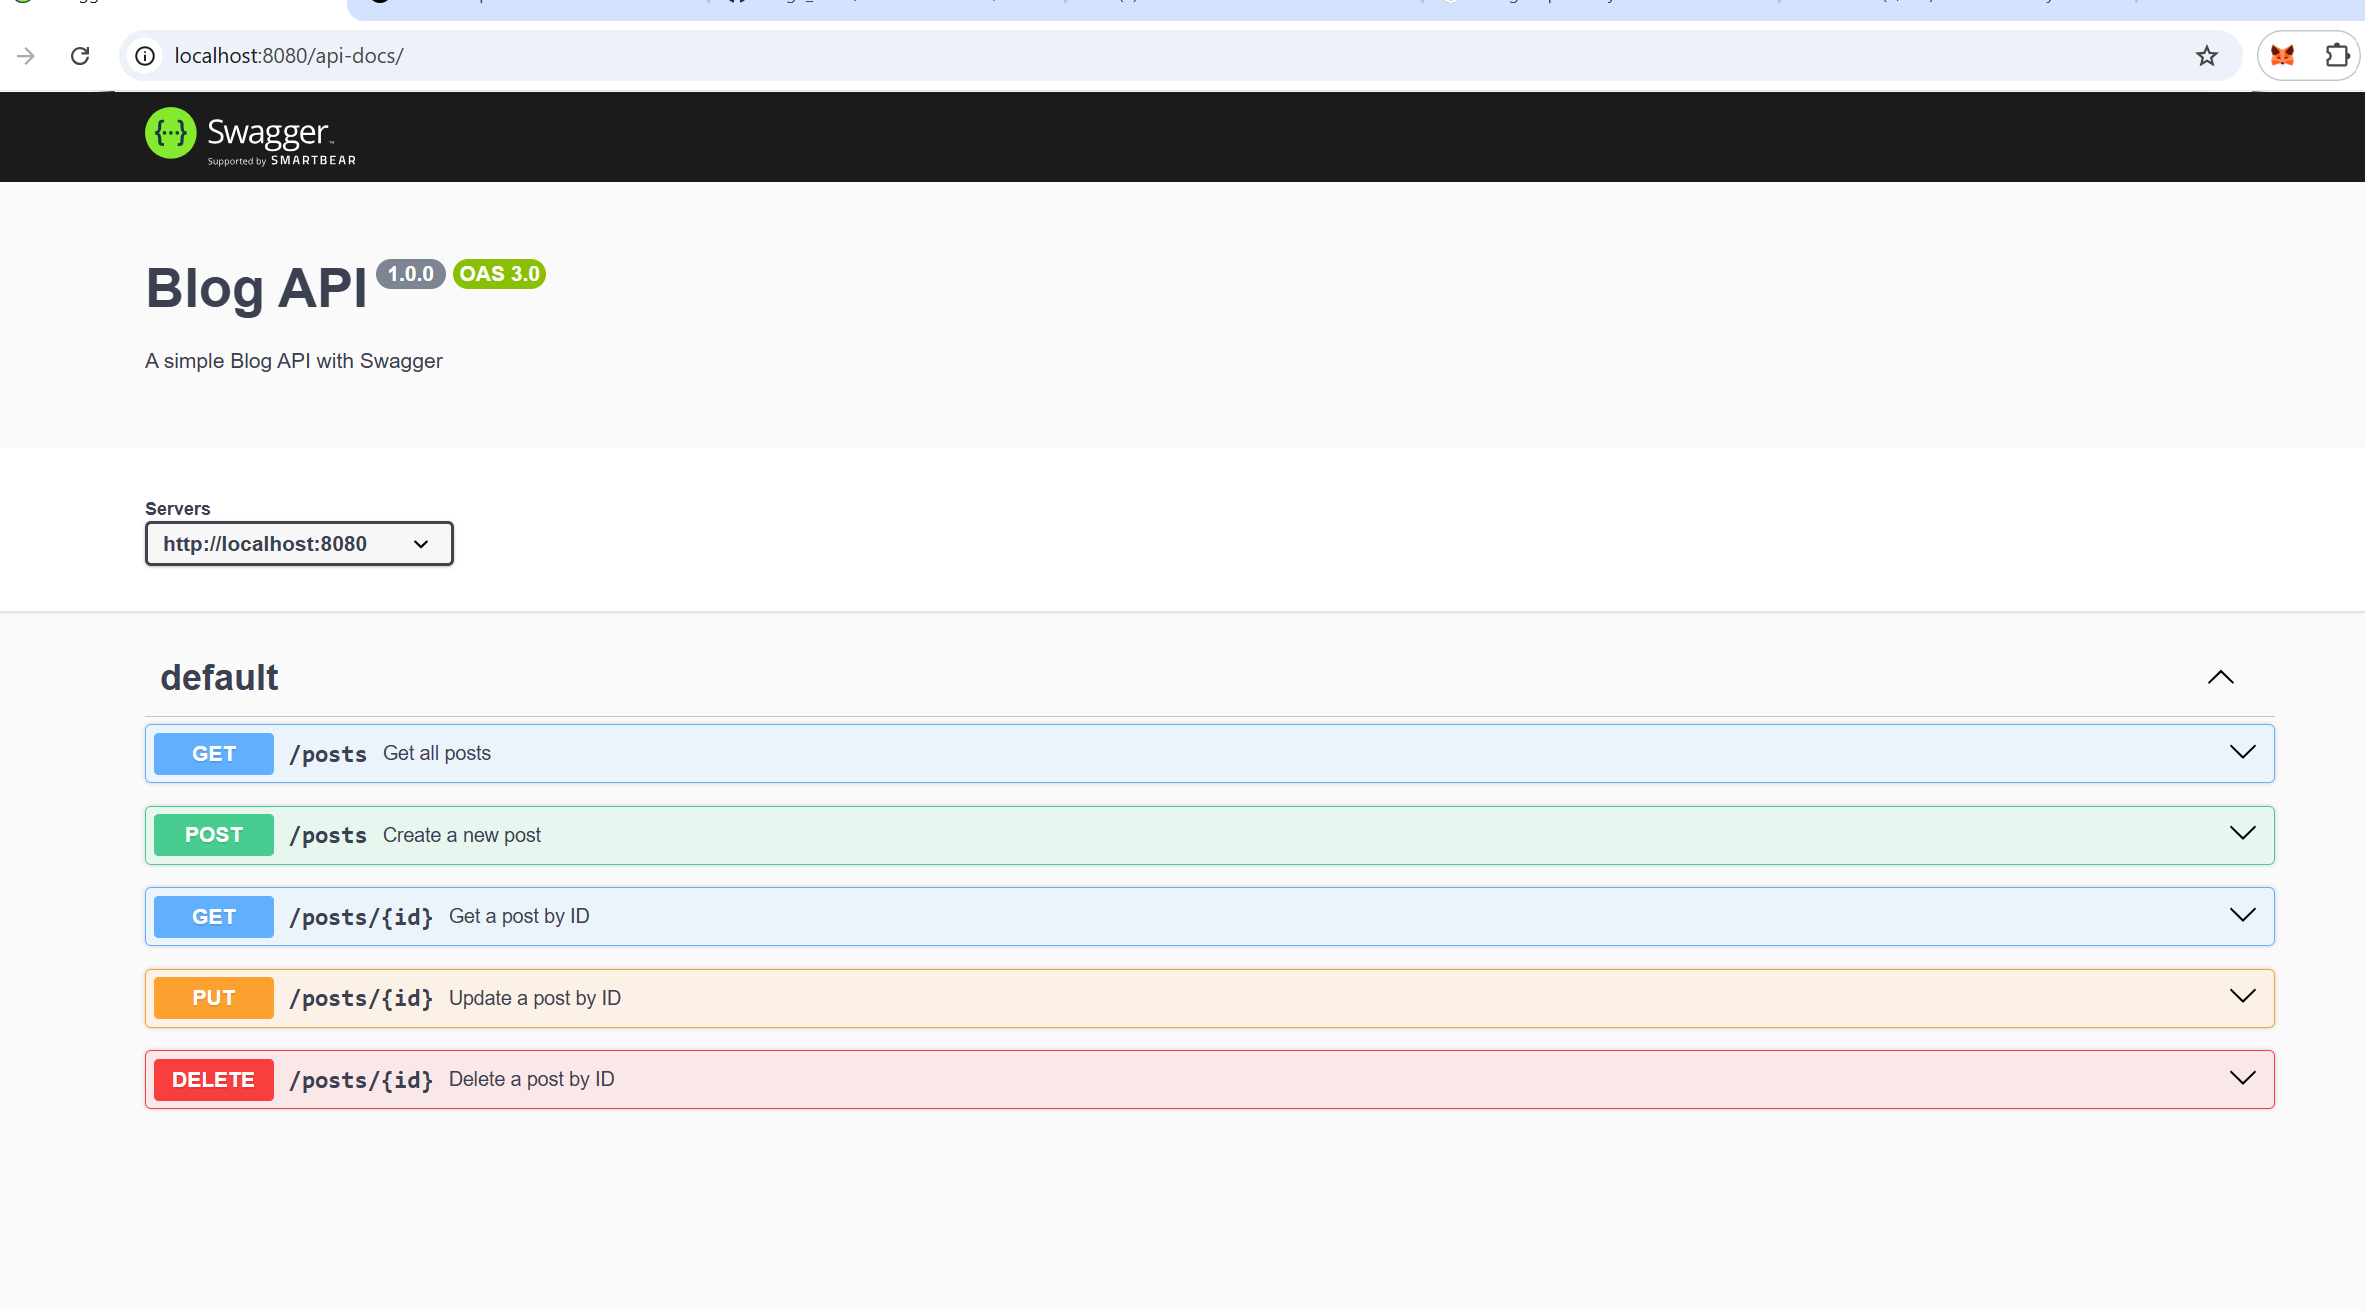
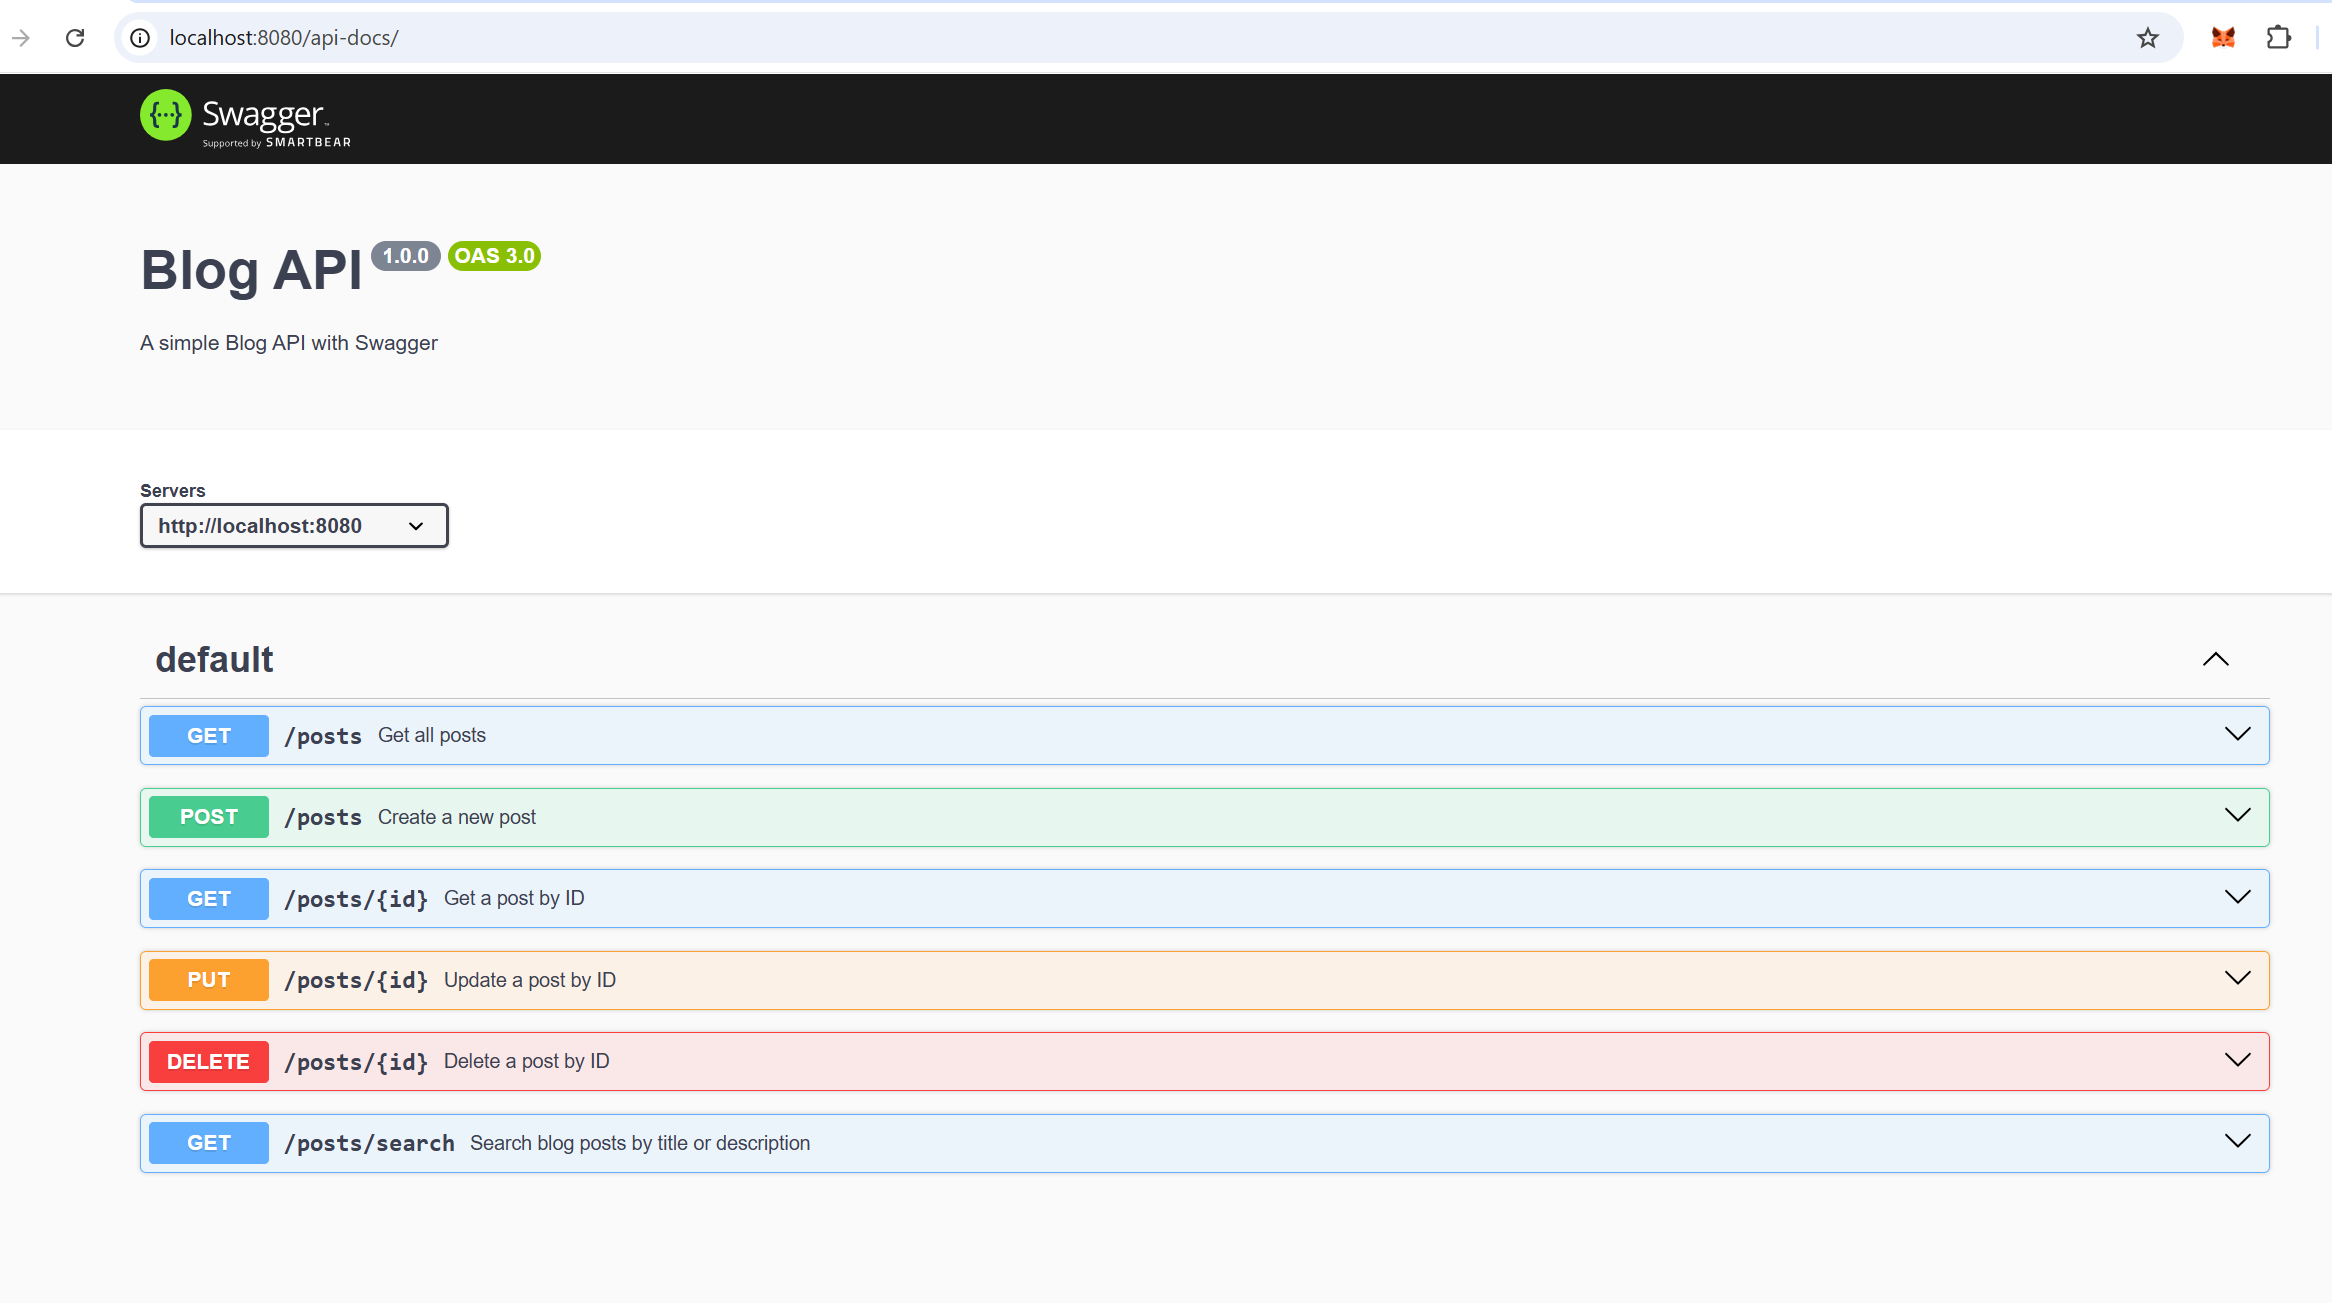
setup reamde and cleint

diff --git a/client/src/features/DeleteEditBlog/index.tsx b/client/src/features/DeleteEditBlog/index.tsx
@@ -5,41 +5,27 @@ import InputField from 'components/InputField';
 import Modal from 'components/Modal';
 import { ModalButtons } from 'components/Modal/components';
 import { isLoadingPost, selectAllPost } from 'entities/blog/model';
-import React, { useEffect, useState } from 'react';
-import {
-  RegisterOptions,
-  SubmitHandler,
-  useForm,
-  UseFormRegisterReturn,
-} from 'react-hook-form';
+import { useEffect, useState } from 'react';
+import { SubmitHandler, useForm } from 'react-hook-form';
 import { useAppDispatch } from 'utils/hooks/useAppDispatch';
 import { useAppSelector } from 'utils/hooks/useAppSelector';
-import { createPost, deletePost, fetchPosts, updatePost } from './thunks';
+import {
+  createPost,
+  deletePost,
+  fetchPosts,
+  searchPost,
+  updatePost,
+} from './thunks';
 import { IBlogPost } from 'utils/constants/types';
 import { toast } from 'react-toastify';
 import Spinner from 'components/Loader/Spinner';
+import useDebounce from 'utils/hooks/useDebounce';
+import EmptyStateCard from 'components/EmptyCart';
 type FormValues = {
   title: string;
   description: string;
   image: FileList;
 };
-const initialPosts = [
-  {
-    id: '1',
-    title: 'Exploring the Universe',
-    description:
-      'A deep dive into the mysteries of the cosmos, uncovering secrets of galaxies, stars, and black holes.',
-    imageUrl: 'https://picsum.photos/400/300?random=2',
-  },
-  {
-    id: '2',
-    title: 'The Future of AI',
-    description:
-      'How artificial intelligence is reshaping industries, from healthcare to finance, and what it means for humanity.',
-    imageUrl: 'https://picsum.photos/400/300?random=1',
-  },
-];
-
 const DeleteEdit = () => {
   const {
     register,
@@ -48,13 +34,15 @@ const DeleteEdit = () => {
     formState: { errors },
   } = useForm<any>();
   const [openModal, setOpenModal] = useState(false);
-
+  const { debounce } = useDebounce();
   const posts: IBlogPost[] = useAppSelector(selectAllPost);
   const isLoading = useAppSelector(isLoadingPost);
   const dispatch = useAppDispatch();
+
   useEffect(() => {
     dispatch(fetchPosts());
   }, []);
+
   const handleDelete = async (postId: number) => {
     const data: any = await dispatch(deletePost(postId)).unwrap();
     if (data && data?.message) {
@@ -78,8 +66,12 @@ const DeleteEdit = () => {
     }
   };
   const handleSearch = (searchTerm: string) => {
-    // Implement search logic
-    console.log('Searching for:', searchTerm);
+    debounce({
+      delay: 700,
+      callBack: () => {
+        dispatch(searchPost(searchTerm));
+      },
+    });
   };
 
   const handleCreateNew = () => {
@@ -156,6 +148,9 @@ const DeleteEdit = () => {
         <div className="min-h-screen bg-gray-50 flex items-start justify-center">
           <Spinner />
         </div>
+      )}
+      {!posts.length && !isLoading && (
+        <EmptyStateCard onCreatePost={handleCreateNew}></EmptyStateCard>
       )}
       {posts?.map((post: IBlogPost) => (
         <BlogPost

diff --git a/client/src/entities/blog/model/index.ts b/client/src/entities/blog/model/index.ts
@@ -4,6 +4,7 @@ import {
   deletePost,
   fetchPostById,
   fetchPosts,
+  searchPost,
   updatePost,
 } from 'features/DeleteEditBlog/thunks';
 import { IBlogPost } from 'utils/constants/types';
@@ -94,13 +95,25 @@ const blogPostSlice = createSlice({
         state.loading = false;
         state.error = action.error.message || 'Failed to delete post';
       });
+    builder
+      // Search posts
+      .addCase(searchPost.pending, (state) => {
+        state.loading = true;
+      })
+      .addCase(searchPost.fulfilled, (state, action: any) => {
+        state.loading = false;
+        state.posts = action.payload.posts;
+      })
+      .addCase(searchPost.rejected, (state, action) => {
+        state.loading = false;
+        state.error = action.error.message || 'Failed to search posts';
+      });
   },
 });
 
 export const selectAllPost = (state: any) => state.blogPost.posts;
 export const isLoadingPost = (state: any) => state.blogPost.loading;
 export const selectPostById = (id: number, state: any) => {
-  console.log(id, state.blogPost, '=====>>>');
   return state.blogPost.posts.find((item: any) => {
     return id === item.id;
   });

diff --git a/client/src/components/EmptyCart/index.tsx b/client/src/components/EmptyCart/index.tsx
@@ -1,0 +1,39 @@
+import React from 'react';
+interface EmptyStateCardProps {
+  onCreatePost?: () => void;
+  message?: string;
+  buttonText?: string;
+}
+
+const EmptyStateCard: React.FC<EmptyStateCardProps> = ({
+  buttonText = 'Create First Post',
+  onCreatePost,
+}) => {
+  return (
+    <div
+      className=" flex items-start justify-center cursor-pointer"
+      onClick={onCreatePost}
+    >
+      <div className="max-w-md p-8 text-center">
+        <div className="mb-6 text-gray-400 ">
+          <svg
+            className="w-16 h-16 mx-auto"
+            fill="none"
+            stroke="currentColor"
+            viewBox="0 0 24 24"
+          >
+            <path
+              strokeLinecap="round"
+              strokeLinejoin="round"
+              strokeWidth={1.5}
+              d="M12 6v6m0 0v6m0-6h6m-6 0H6"
+            />
+          </svg>
+        </div>
+        <h2 className="text-2xl font-bold text-gray-500 mb-4">{buttonText}</h2>
+      </div>
+    </div>
+  );
+};
+
+export default EmptyStateCard;

diff --git a/client/src/utils/hooks/useDebounce.ts b/client/src/utils/hooks/useDebounce.ts
@@ -1,0 +1,26 @@
+import React, { useCallback, useEffect, useRef } from 'react';
+export interface IDebounce {
+  delay: number;
+  callBack(): void;
+}
+const useDebounce = (): { debounce(arg: IDebounce): void } => {
+  const timeOutId = useRef<any>(0);
+
+  const debounce = useCallback(({ delay, callBack }: IDebounce) => {
+    if (timeOutId.current) {
+      clearTimeout(timeOutId.current);
+    }
+    timeOutId.current = setTimeout(() => {
+      callBack();
+    }, delay);
+  }, []);
+
+  useEffect(() => {
+    return () => {
+      clearTimeout(timeOutId.current);
+    };
+  }, []);
+  return { debounce };
+};
+
+export default useDebounce;

diff --git a/client/src/features/DeleteEditBlog/thunks/index.ts b/client/src/features/DeleteEditBlog/thunks/index.ts
@@ -72,3 +72,18 @@ export const deletePost = createAsyncThunk<number, number>(
     return response.json();
   }
 );
+export const searchPost = createAsyncThunk<string, string>(
+  'blogPosts/searchPost',
+  async (searchTerm) => {
+    const response = await fetch(
+      `${BASE_API_URL}/posts/search?term=${searchTerm}`,
+      {
+        method: 'GET',
+      }
+    );
+    if (!response.ok) {
+      throw new Error('Failed to delete post');
+    }
+    return response.json();
+  }
+);

diff --git a/client/src/App.tsx b/client/src/App.tsx
@@ -1,9 +1,5 @@
-import { Suspense, useState } from 'react';
+import { Suspense } from 'react';
 import './App.css';
-import Header from './components/Header/Header';
-import { BrowserRouter } from 'react-router-dom';
-import BlogPost from './components/BlogPost/BlogPost';
-import Button from './components/Button/Button';
 import Routing from './app/Routing';
 
 function App() {

diff --git a/README.md b/README.md
@@ -9,6 +9,7 @@ This project is a boilerplate for an Express application built with TypeScript a
 ## Features
 
 - **CRUD operations** for blog posts with file upload support.
+- **Search functionality** to filter blog posts based on title and description.
 - **Express Validator** for validating request payloads.
 - **Prisma ORM** for interacting with a PostgreSQL database.
 - **File upload** functionality via Multer.
@@ -29,6 +30,24 @@ This project is a boilerplate for an Express application built with TypeScript a
 - Node.js (v22.13.1)
 - PostgreSQL installed and running
 
+## Project Structure
+
+src/
+├── controllers/
+│ └── blogController.ts
+├── services/
+│ └── blogService.ts
+├── routes/
+│ └── blogRoutes.ts
+├── middlewares/
+│ └── fileUploadMiddleware.ts
+├── utils/
+│ └── searchUtils.ts
+├── prisma/
+│ └── schema.prisma
+├── app.ts
+├── server.ts
+
 ## Installation
 
 1. **Clone the repository:**
@@ -45,3 +64,101 @@ This project is a boilerplate for an Express application built with TypeScript a
    ```
 
    ![Swagger doc](./README_IMAGES/swagger-img.png)
+
+   # Client
+
+---
+
+## 📂 Project Structure
+
+```plaintext
+/src
+ ├── app/              # Application setup (store, providers, etc.)
+ ├── entities/         # Each entity has its own model & state
+ │    ├── blog/        # Example: News entity
+ │    └── ...
+ ├── features/         # Features that combine entities & business logic
+ │    ├── deleteAndEdit/        # Example: Authentication feature
+ │
+ │    └── ...
+ ├── shared/           # Reusable utilities, components, hooks, etc.
+ │    ├── ui/          # Shared UI components
+ │    ├── api/         # API utilities
+ │    ├── hooks/       # Custom React hooks
+ │    └── ...
+ ├── pages/            # Page components mapped to routes
+ ├── index.tsx         # Entry point
+ └── README.md         # Documentation
+```
+
+---
+
+## ⚙ Technologies Used
+
+- **Frontend:** React 18, Redux Toolkit
+- **State Management:** Redux Toolkit, RTK Query
+- **Architecture:** Feature-Sliced Design (FSD)
+- **API Requests:** Custom Fetch
+- **Styling:** Styled component / CSS Modules
+- **Build Tool:** Webpack
+- **TypeScript:** Strongly typed components & store
+- **Form Handling:** React Hook Form
+- **Error Handling:** Toast notifications for API errors
+
+---
+
+## ✅ Key Features
+
+✔ **Feature-Sliced Design (FSD)** for better scalability and maintainability.  
+✔ **Redux Toolkit** for efficient state management.  
+✔ **Modular structure** with separation of concerns between entities, features, and UI components.  
+✔ **Reusable shared components & hooks** to avoid redundancy.  
+✔ **Scalable & performance-optimized** with lazy loading and code splitting.
+
+---
+
+## 🛠 Setup & Installation
+
+### 1⃣ Clone the Repository
+
+```sh
+git clone https://github.com/AmramAnanyan/studio_one.git
+```
+
+### 2⃣ Install Dependencies
+
+```sh
+npm install
+```
+
+### 3⃣ Start Development Server
+
+```sh
+npm start
+```
+
+### 4⃣ Build for Production
+
+```sh
+npm run build
+```
+
+![Swagger doc](./README_IMAGES/swagger-img.png)
+
+---
+
+![Home Page](./README_IMAGES/home.png)
+
+![Create post](./README_IMAGES/create.png)
+
+![Details Page](./README_IMAGES/details.png)
+
+## 📚 Resources & Documentation
+
+- 📖 [React Docs](https://react.dev/)
+- 📖 [Redux Toolkit](https://redux-toolkit.js.org/)
+- 📖 [Feature-Sliced Design](https://feature-sliced.design/)
+- 📖 [TypeScript Docs](https://www.typescriptlang.org/)
+- 📖 [Webpack](https://webpack.js.org/)
+
+---
